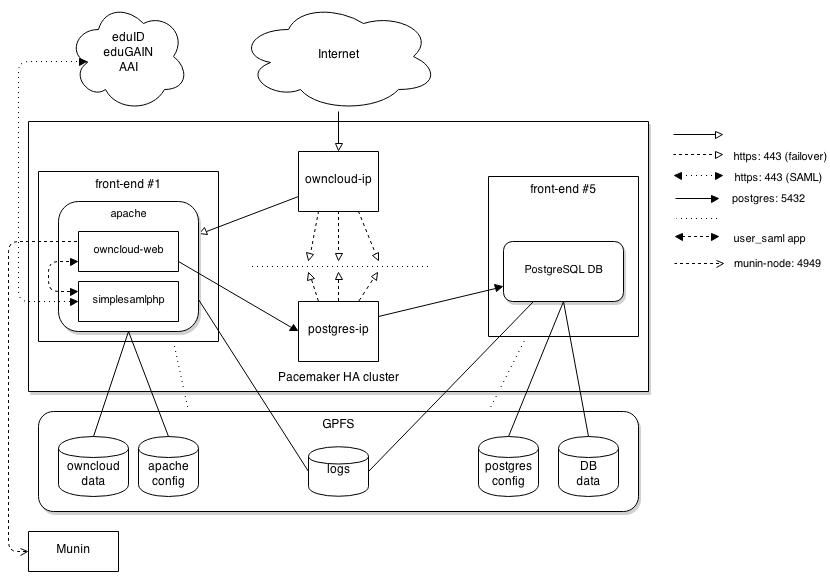
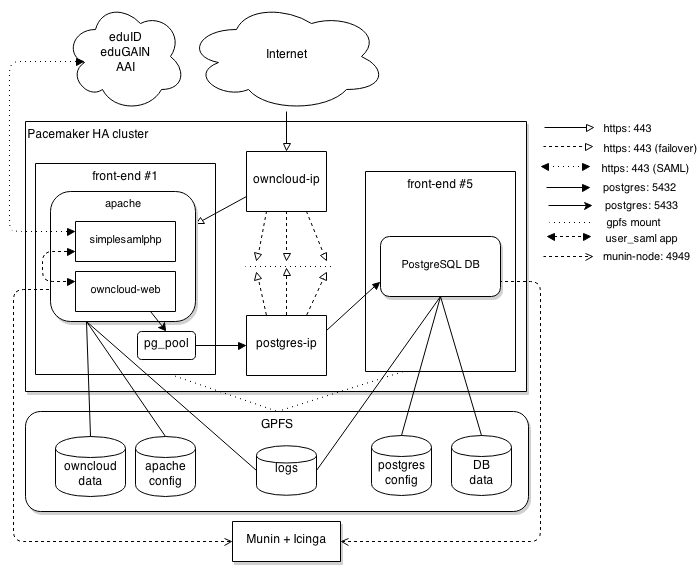
Added CESNET architecture chapter

diff --git a/source/cesnet/architecture.rst b/source/cesnet/architecture.rst
@@ -6,40 +6,147 @@ ownCloud service at CESNET.
 
 .. image:: images/architecture/CesnetOcArchitecture1.0.png
 
-Our ownCloud architecture is built around HA (High Availability) cluster,
-which is managed by Pacemaker_. The cluster consists of 5 equivalent nodes.
-Pacemaker assigns owncloud and postgres service to one of the front-end nodes.
-All nodes are physical non-virtualized machines.
+Our ownCloud architecture is built on top of HA (High Availability) cluster
+managed by Pacemaker_. Cluster consists of 5 equivalent nodes.
+Pacemaker ensures that ownCloud and Postgres is running on one
+of the front-end nodes. All nodes are physical machines.
 
 Specs
 ------
 
-Hardware specifications for all front-ends are as follows:
+Hardware specifications for each front-end are as follows:
 
   * CPU: 2 x Intel(R) Xeon(R) CPU E5-2620 0 @ 2.00GHz (24 CPUs)
-  * RAM: 96 GB
-  * NET: 8 Gbps
+  * RAM: 96 GB (~ 40 GB free to use)
+  * NETWORK: 2 x 10 GE (bonded)
 
+GPFS is being used as an underlying filesystem. OwnCloud utilizes a dedicated
+40 TB volume which is mounted on all front-ends. The IBM DCS3700 disk array
+is being used for storage.
 
+All front-end nodes are running Red Hat Enterprise Linux 6 with Red Hat subscription.
 
 Application Server
 ------------------
 
+OwnCloud application is handled by Apache_ 2.2 and PHP_ 5.4
+(which has been installed from nonstandard repository -- see this guide_).
+
+Newer PHP version was used instead of default PHP 5.3 version to allow
+uploads of files larger than 2 GB. There were problems with this in 5.3.X series.
+With PHP 5.4, we are able to do 16 GB uploads with essentially no problems at all.
+
+Apache is running as a standalone server without any proxies in the way. It is
+listening on port 80 and 443. HTTPS is being forced by redirection from
+80 to 443.
+
+Complete Apache + PHP configuration and website root is located on a shared GPFS volume,
+which is mounted on all nodes to ``/gpfs/owncloud/``.
+
+Apache is configured to use the default **prefork** MPM module for handling requests.
+However, its configuration has been tweaked to match nodes specs and current load::
+        <IfModule prefork.c>
+        StartServers         500
+        MinSpareServers       10
+        MaxSpareServers       30
+        ServerLimit         1800
+        MaxClients          1600
+        MaxRequestsPerChild 8000
+        </IfModule>
+Since we have quite a lot of RAM available, we beefed up the maximum number of workers
+to 1600, so it uses up to 40 GB of RAM with some reserve (one Apache process takes 22 MB in average).
+In order to handle a load peak afer server restart, when user clients start reconnecting, the
+**StartServers** directive is set quite high too.
+
+PHP is set up with `Zend OPcache`_ module for better overall performance and `mod_xsendfile`_, which is being
+used for faster file downloads.
+
+Open Ports:
+
+  * 80
+  * 443
+
 Database Server
 ---------------
+
+PostgreSQL_ 8.4 is being used as a database server of choice. This is the highest version available
+in standard RHEL 6 repositories. Database server runs as a single instance on a
+different node than Apache instance and without any replication yet (we are planning an upgrade to 9.2
+and replication setup in future).
+
+OwnCloud application doesn't access the PostgreSQL instance directly. It sends its queries
+through `PgPool II`_, which acts as a connection cache (runs in *Connection Pooling* mode).
+This gives us some performance boost and it reduces database instance load at the same time.
+PgPool runs together with the Apache instance.
+
+PostgreSQL settings are set according to pgtune_ utility recommendation. It has allocated
+40 GB of RAM, same as the Apache instance, and maximum numer of connections is set to **51**
+(mostly based on this recommendation_).
+
+Database server has its data and configuration stored on a shared GPFS volume like the Apache server.
+
+Open Ports:
+
+  * 5432
+  * 5433 (PgPool)
 
 High Availability
 -----------------
 
+*Pacemaker resources setup, resource agents - @berosek*
+
 User Authentication
 -------------------
+
+Authentication of users is based on SAML. It relies on the SimpleSAMLphp_ backend application.
+SimpleSAMLphp backend is configured with eduID_ and eduGAIN_ metadata.
+We are thus accepting users coming from these two identity federations.
+
+There are basically two available user backends for ownCloud, which allows federated
+identities to log in -- `user_saml`_ and `user_shibboleth`_. Both of them are quite outdated
+and not supported in ownCloud 6. We have picked the *user_saml* app and fixed an issues it 
+had with OC 6.
 
 Data Storage
 ------------
 
+*GPFS storage and backups - @podzim*
+
 Monitoring
 ----------
 
+Both Apache and PostgreSQL instances are constantly monitored by Icinga_ (fork of Nagios).
+Following items are being checked:
+
+  * SSL certificate validity
+  * WebDAV file transfers
+  * free space on OC GPFS volume
+  * HTTP[S] protocol (Apache responding)
+  * PING (machine with owncloud-ip responding)
+  * PostgreSQL (Postgres is running and OC can connect to the database)
+
+In addition to this, we use custom Munin_  plugin to collect usage statistics
+and create graphs. We have currently graps for the following ownCloud statistics:
+
+  * Number of user accounts
+  * Number of files
+
+
 .. links
 .. _Pacemaker: http://clusterlabs.org/quickstart-redhat.html
-
+.. _Apache: https://httpd.apache.org/
+.. _PHP: http://www.php.net/
+.. _guide: http://developerblog.redhat.com/2013/08/01/php-5-4-on-rhel-6-using-rhscl/
+.. _`Zend OPcache`: http://pecl.php.net/package/ZendOpcache
+.. _`mod_xsendfile`: https://tn123.org/mod_xsendfile/
+.. _PostgreSQL: http://www.postgresql.org/
+.. _`PgPool II`: http://www.pgpool.net/mediawiki/index.php/Main_Page
+.. _pgtune: http://pgtune.leopard.in.ua/
+.. _recommendation: http://wiki.postgresql.org/wiki/Number_Of_Database_Connections#How_to_Find_the_Optimal_Database_Connection_Pool_Size
+.. _SimpleSAMLphp: https://simplesamlphp.org/
+.. _eduId: http://eduid.cz/
+.. _eduGAIN: http://www.geant.net/service/eduGAIN/Pages/home.aspx
+.. _`user_saml`: https://github.com/owncloud/apps/tree/master/user_saml
+.. _`user_shibboleth`: https://github.com/AndreasErgenzinger/user_shibboleth
+.. _Icinga: https://www.icinga.org/
+.. _Munin: http://munin-monitoring.org/
